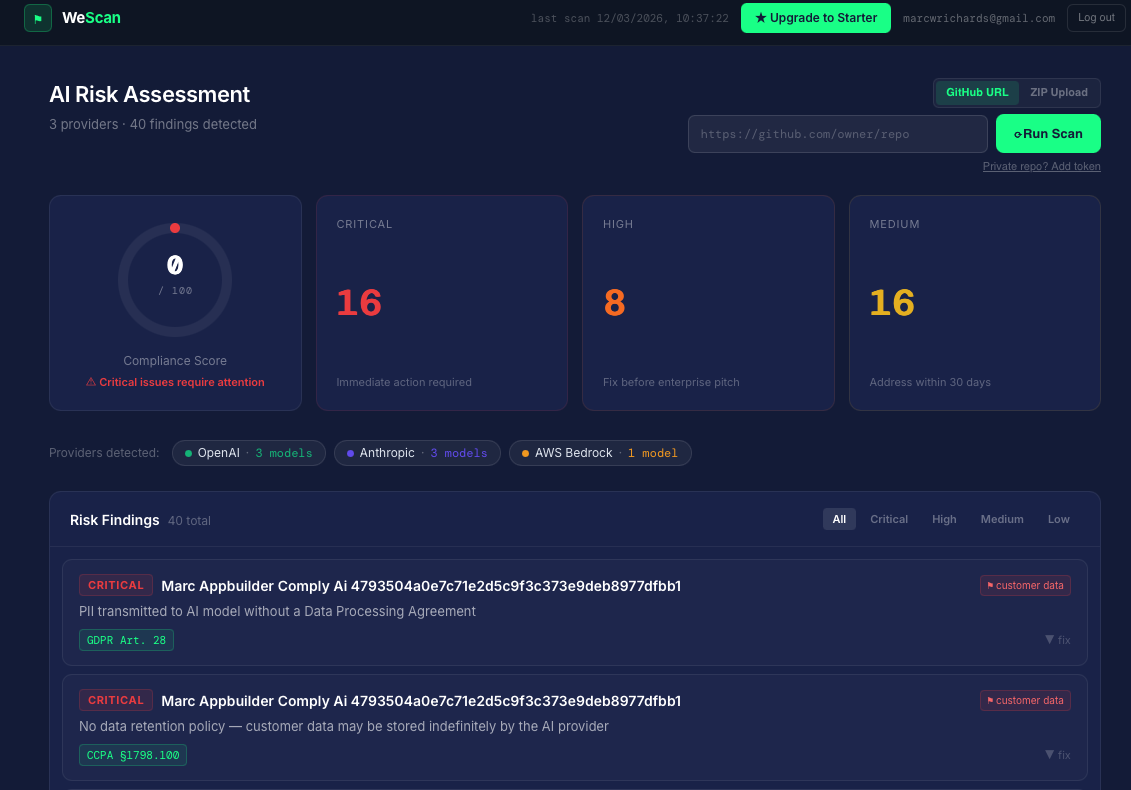
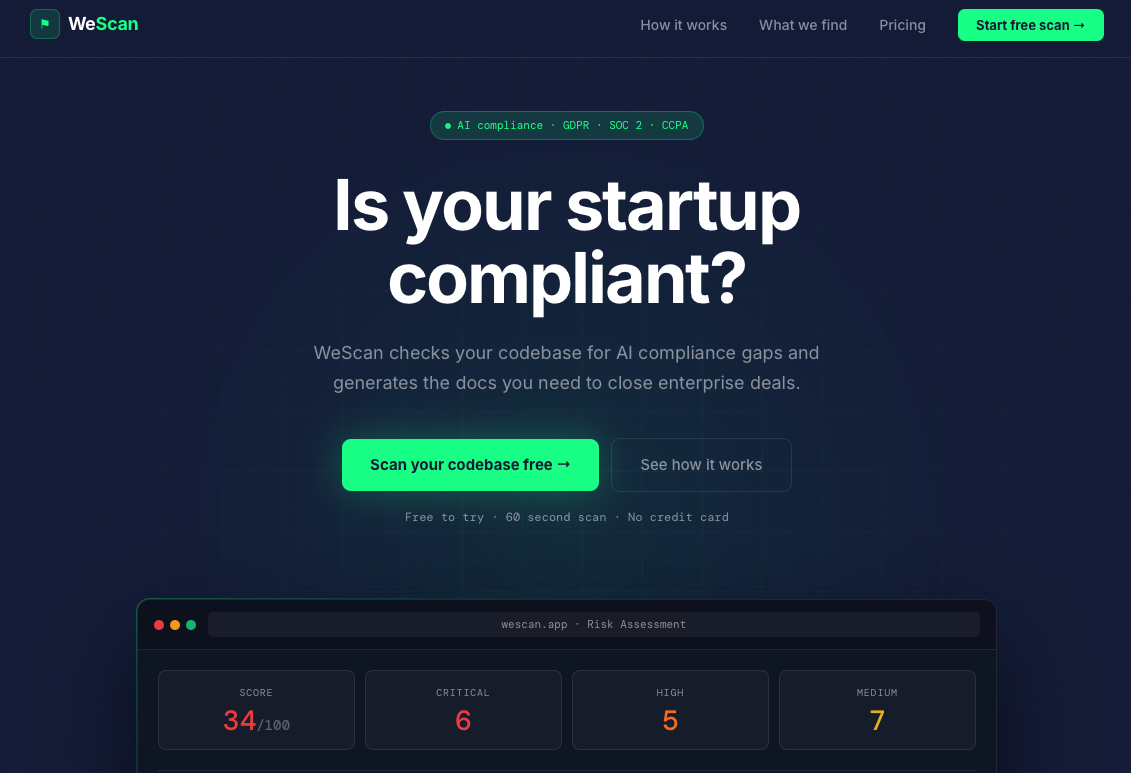
simplify AI adoption section; update philosophy cards; reorder custom dev services; swap wescan image

diff --git a/index.html b/index.html
@@ -957,7 +957,7 @@
             <div class="philosophy-grid">
                 <div class="philosophy-card">
                     <h3>What I Do</h3>
-                    <p>I help businesses adopt AI — finding where time is being lost and setting up the right tools properly. I also build websites, web apps, and MVPs from scratch, bespoke to what you need.</p>
+                    <p>I build websites, web apps, and bespoke systems from scratch — and help businesses figure out where AI can actually make a difference. Practical stuff, built properly, for real people.</p>
                 </div>
                 <div class="philosophy-card">
                     <h3>Experience</h3>
@@ -965,7 +965,7 @@
                 </div>
                 <div class="philosophy-card">
                     <h3>Who It's For</h3>
-                    <p>Solo founders, growing businesses, local owner-operated businesses, charities, and community organisations — anyone who needs practical tech or AI done properly, without the agency overhead.</p>
+                    <p>Small businesses, solo founders, local organisations, and anyone who needs things built properly — without agency prices or being handed off to a junior.</p>
                 </div>
                 <div class="philosophy-card">
                     <h3>The Name</h3>
@@ -978,44 +978,11 @@
     <!-- AI Adoption Section -->
     <section class="ai-adoption">
         <div class="container">
-            <h2>AI Adoption for Local Business</h2>
-            <p class="ai-adoption-intro">Most businesses don't need a custom AI product. They need someone to spend time with them, understand where the real friction is, and set up the right tools properly. That's what I do.</p>
-
-            <div class="ai-steps">
-                <div class="ai-step">
-                    <div class="ai-step-number">01</div>
-                    <h3>Half-day discovery</h3>
-                    <p>I come to you. We map the repetitive tasks, the admin drag, the communication bottlenecks.</p>
-                </div>
-                <div class="ai-step">
-                    <div class="ai-step-number">02</div>
-                    <h3>3-day implementation</h3>
-                    <p>I set up and configure the right tools, write the prompts, connect the workflows, train your team.</p>
-                </div>
-                <div class="ai-step">
-                    <div class="ai-step-number">03</div>
-                    <h3>You run it</h3>
-                    <p>Everything is handed over clearly. No monthly retainer required.</p>
-                </div>
-            </div>
-
-            <div class="ai-examples">
-                <h3>Things we've helped businesses automate</h3>
-                <ul>
-                    <li>A tool that reads incoming client enquiries and drafts a personalised reply for the team to review and send</li>
-                    <li>A system that takes a bullet-point brief and produces a full first draft — proposals, listings, reports, social posts</li>
-                    <li>An internal assistant that answers staff questions about processes, policies, and FAQs without interrupting senior staff</li>
-                    <li>A document summariser that condenses long reports, contracts, or application forms into a clear action summary</li>
-                    <li>A follow-up engine that generates personalised check-in messages after appointments or consultations</li>
-                    <li>A lead qualifier that asks the right questions and scores or categorises enquiries before a human picks them up</li>
-                    <li>A content engine that turns one piece of content — a talk, a voice note, a blog — into multiple formats automatically</li>
-                </ul>
-            </div>
-
-            <p class="ai-who">Solicitors, estate agents, mortgage brokers, recruiters, wellness businesses, marketing agencies, charities, and community organisations — anywhere skilled people are spending time on tasks that could be handled automatically.</p>
+            <h2>AI Adoption for Small Business</h2>
+            <p class="ai-adoption-intro">Most businesses don't need a custom AI product. They need someone to figure out where the time is actually being lost and set up the right tools. If that sounds like you, let's have a chat — it doesn't need to cost the earth.</p>
 
             <div class="ai-cta">
-                <a href="mailto:marc@gladetech.uk">Book a free 30-minute call — no pitch, just an honest conversation</a>
+                <a href="mailto:marc@gladetech.uk">Get in touch</a>
             </div>
         </div>
     </section>
@@ -1026,20 +993,20 @@
             <h2>Custom Development</h2>
             <div class="services-grid">
                 <div class="service-card">
-                    <h3>Websites</h3>
-                    <p>Clean, modern websites that look great and work beautifully. From single-page sites to full platforms, built to your brief.</p>
+                    <h3>Virtual Assistants</h3>
+                    <p>Fully bespoke, highly prompted AI assistants built to suit exactly what you need — your tone, your brand, your workflow. Not off-the-shelf. Built for you.</p>
                 </div>
                 <div class="service-card">
                     <h3>Custom Applications</h3>
                     <p>Bespoke systems built to fit your business perfectly. Modern stack, production quality.</p>
                 </div>
                 <div class="service-card">
-                    <h3>Booking Systems</h3>
-                    <p>Streamlined scheduling and client management for wellness and service businesses.</p>
-                </div>
-                <div class="service-card">
                     <h3>MVPs & Prototypes</h3>
                     <p>Fast, reliable builds that get your ideas into the world.</p>
+                </div>
+                <div class="service-card">
+                    <h3>Websites</h3>
+                    <p>Clean, modern websites that look great and work beautifully. From single-page sites to full platforms, built to your brief.</p>
                 </div>
             </div>
         </div>
